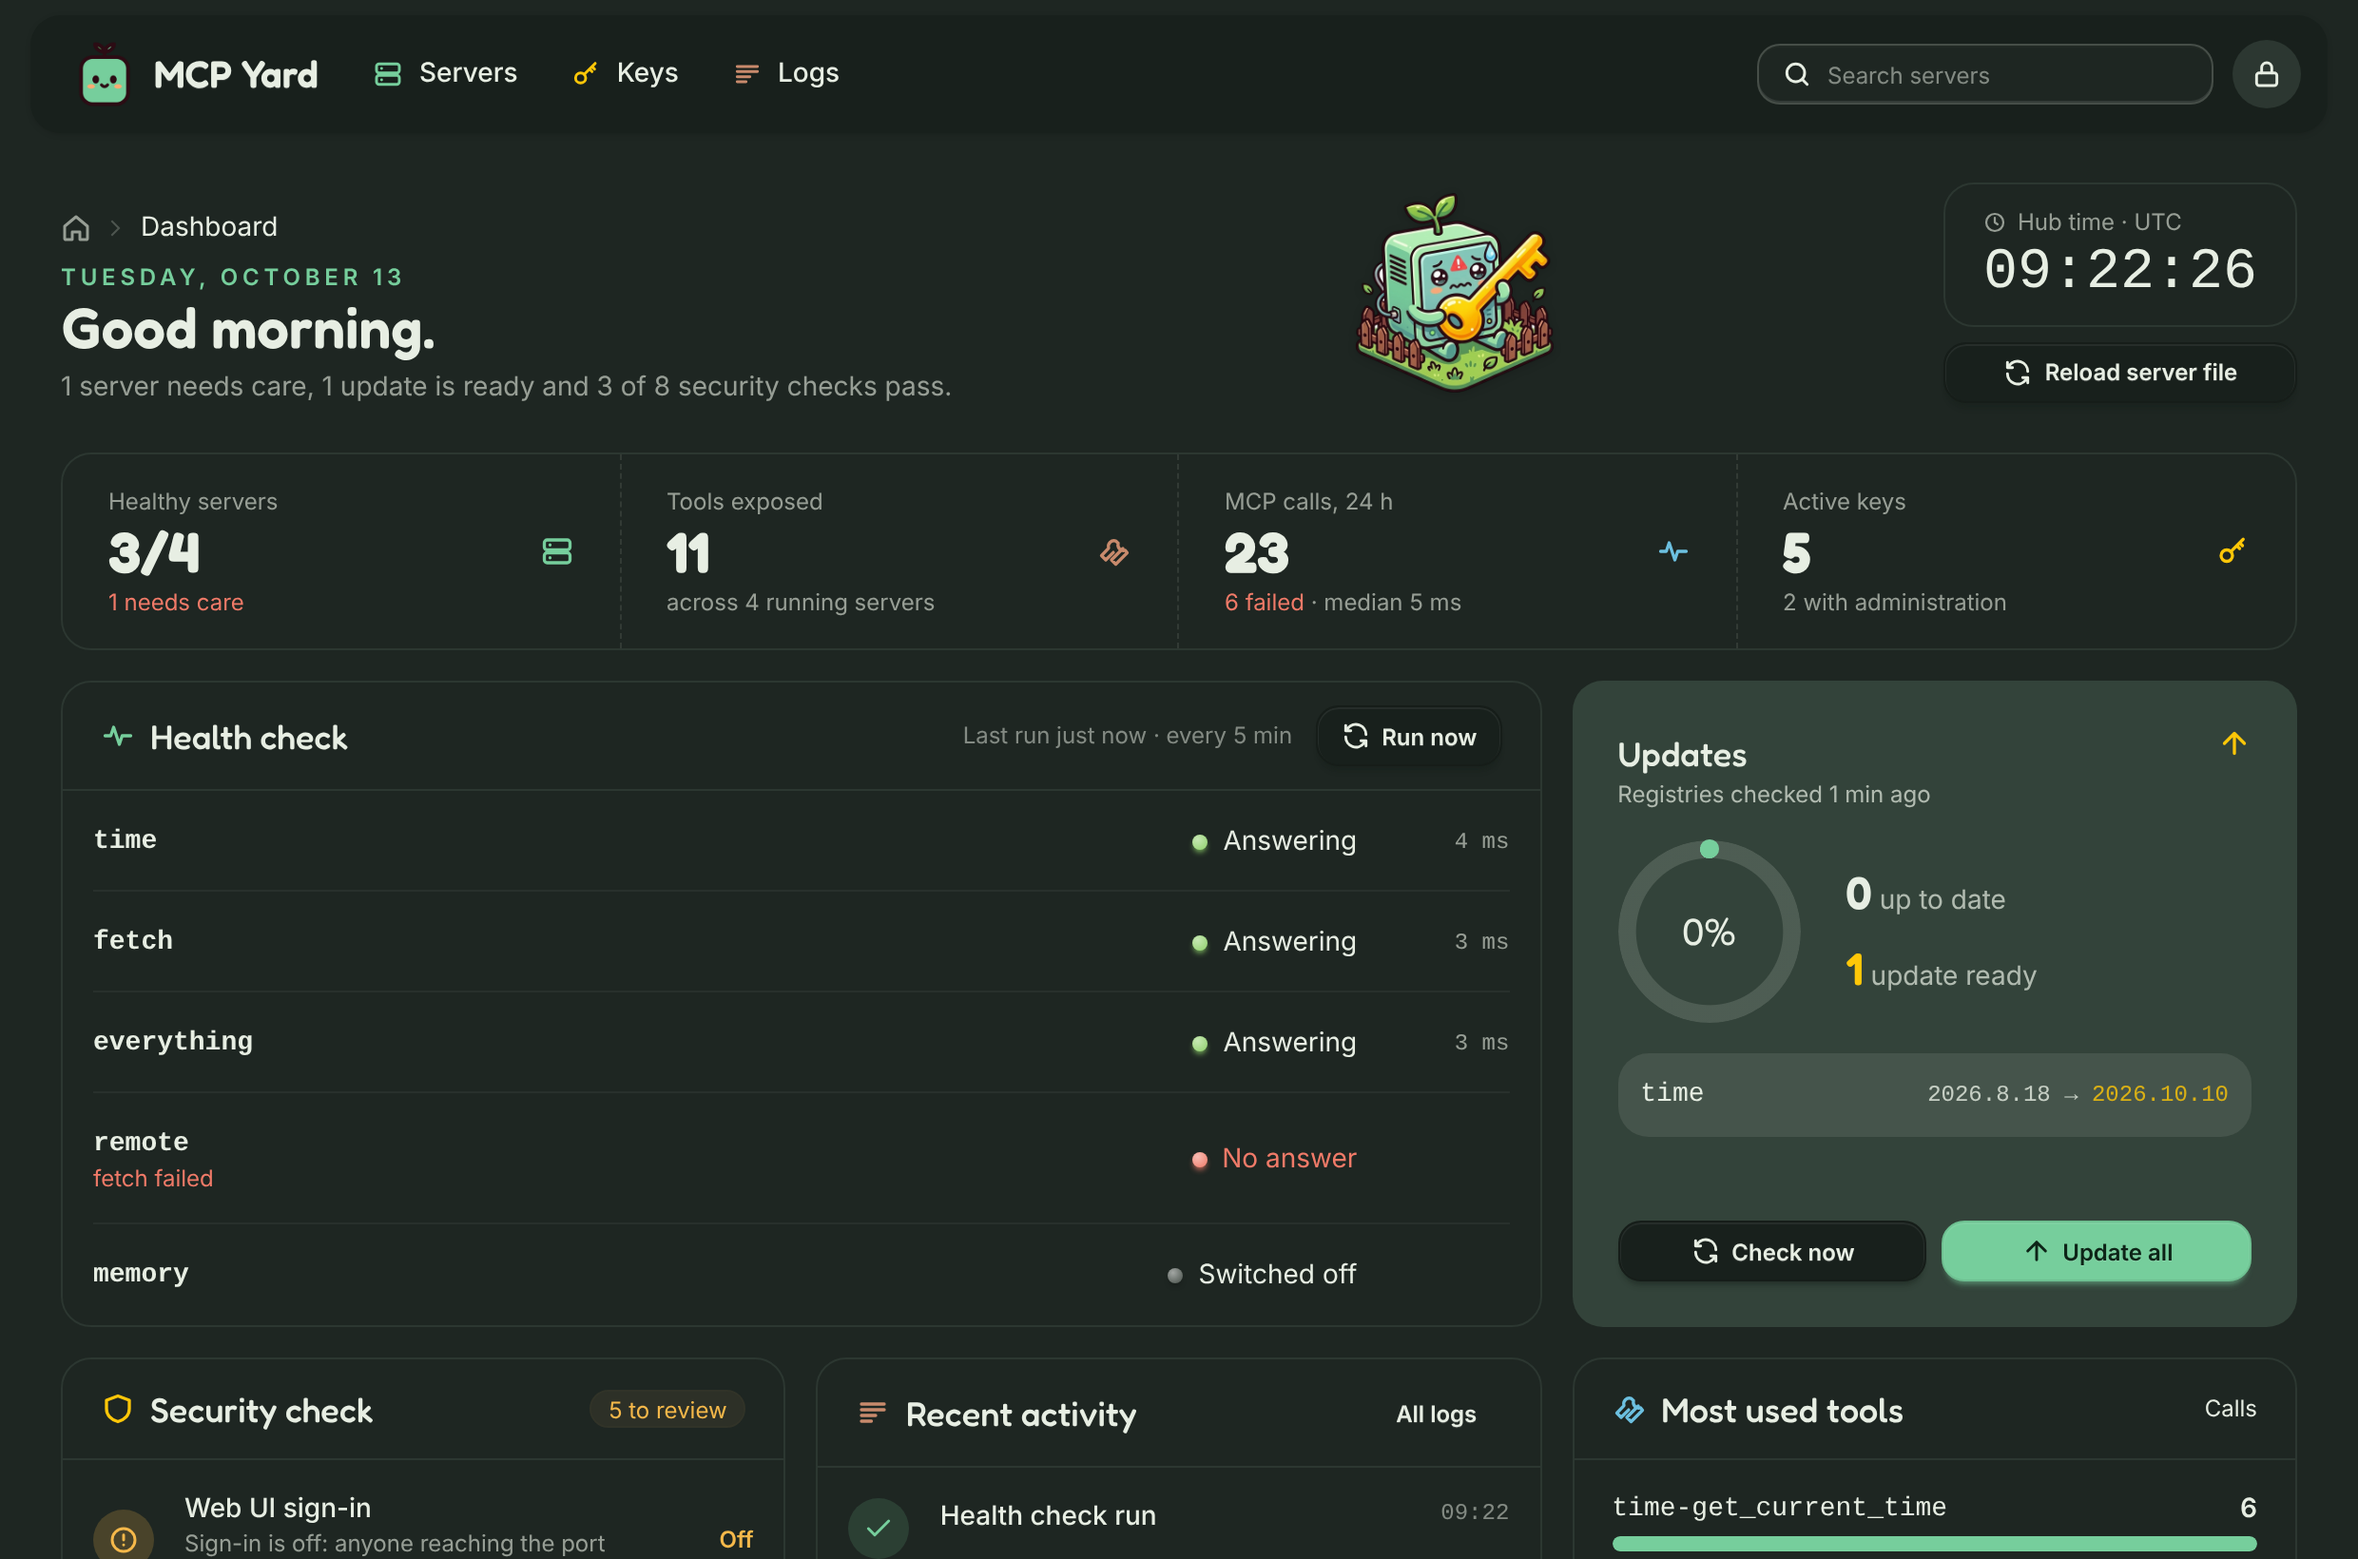
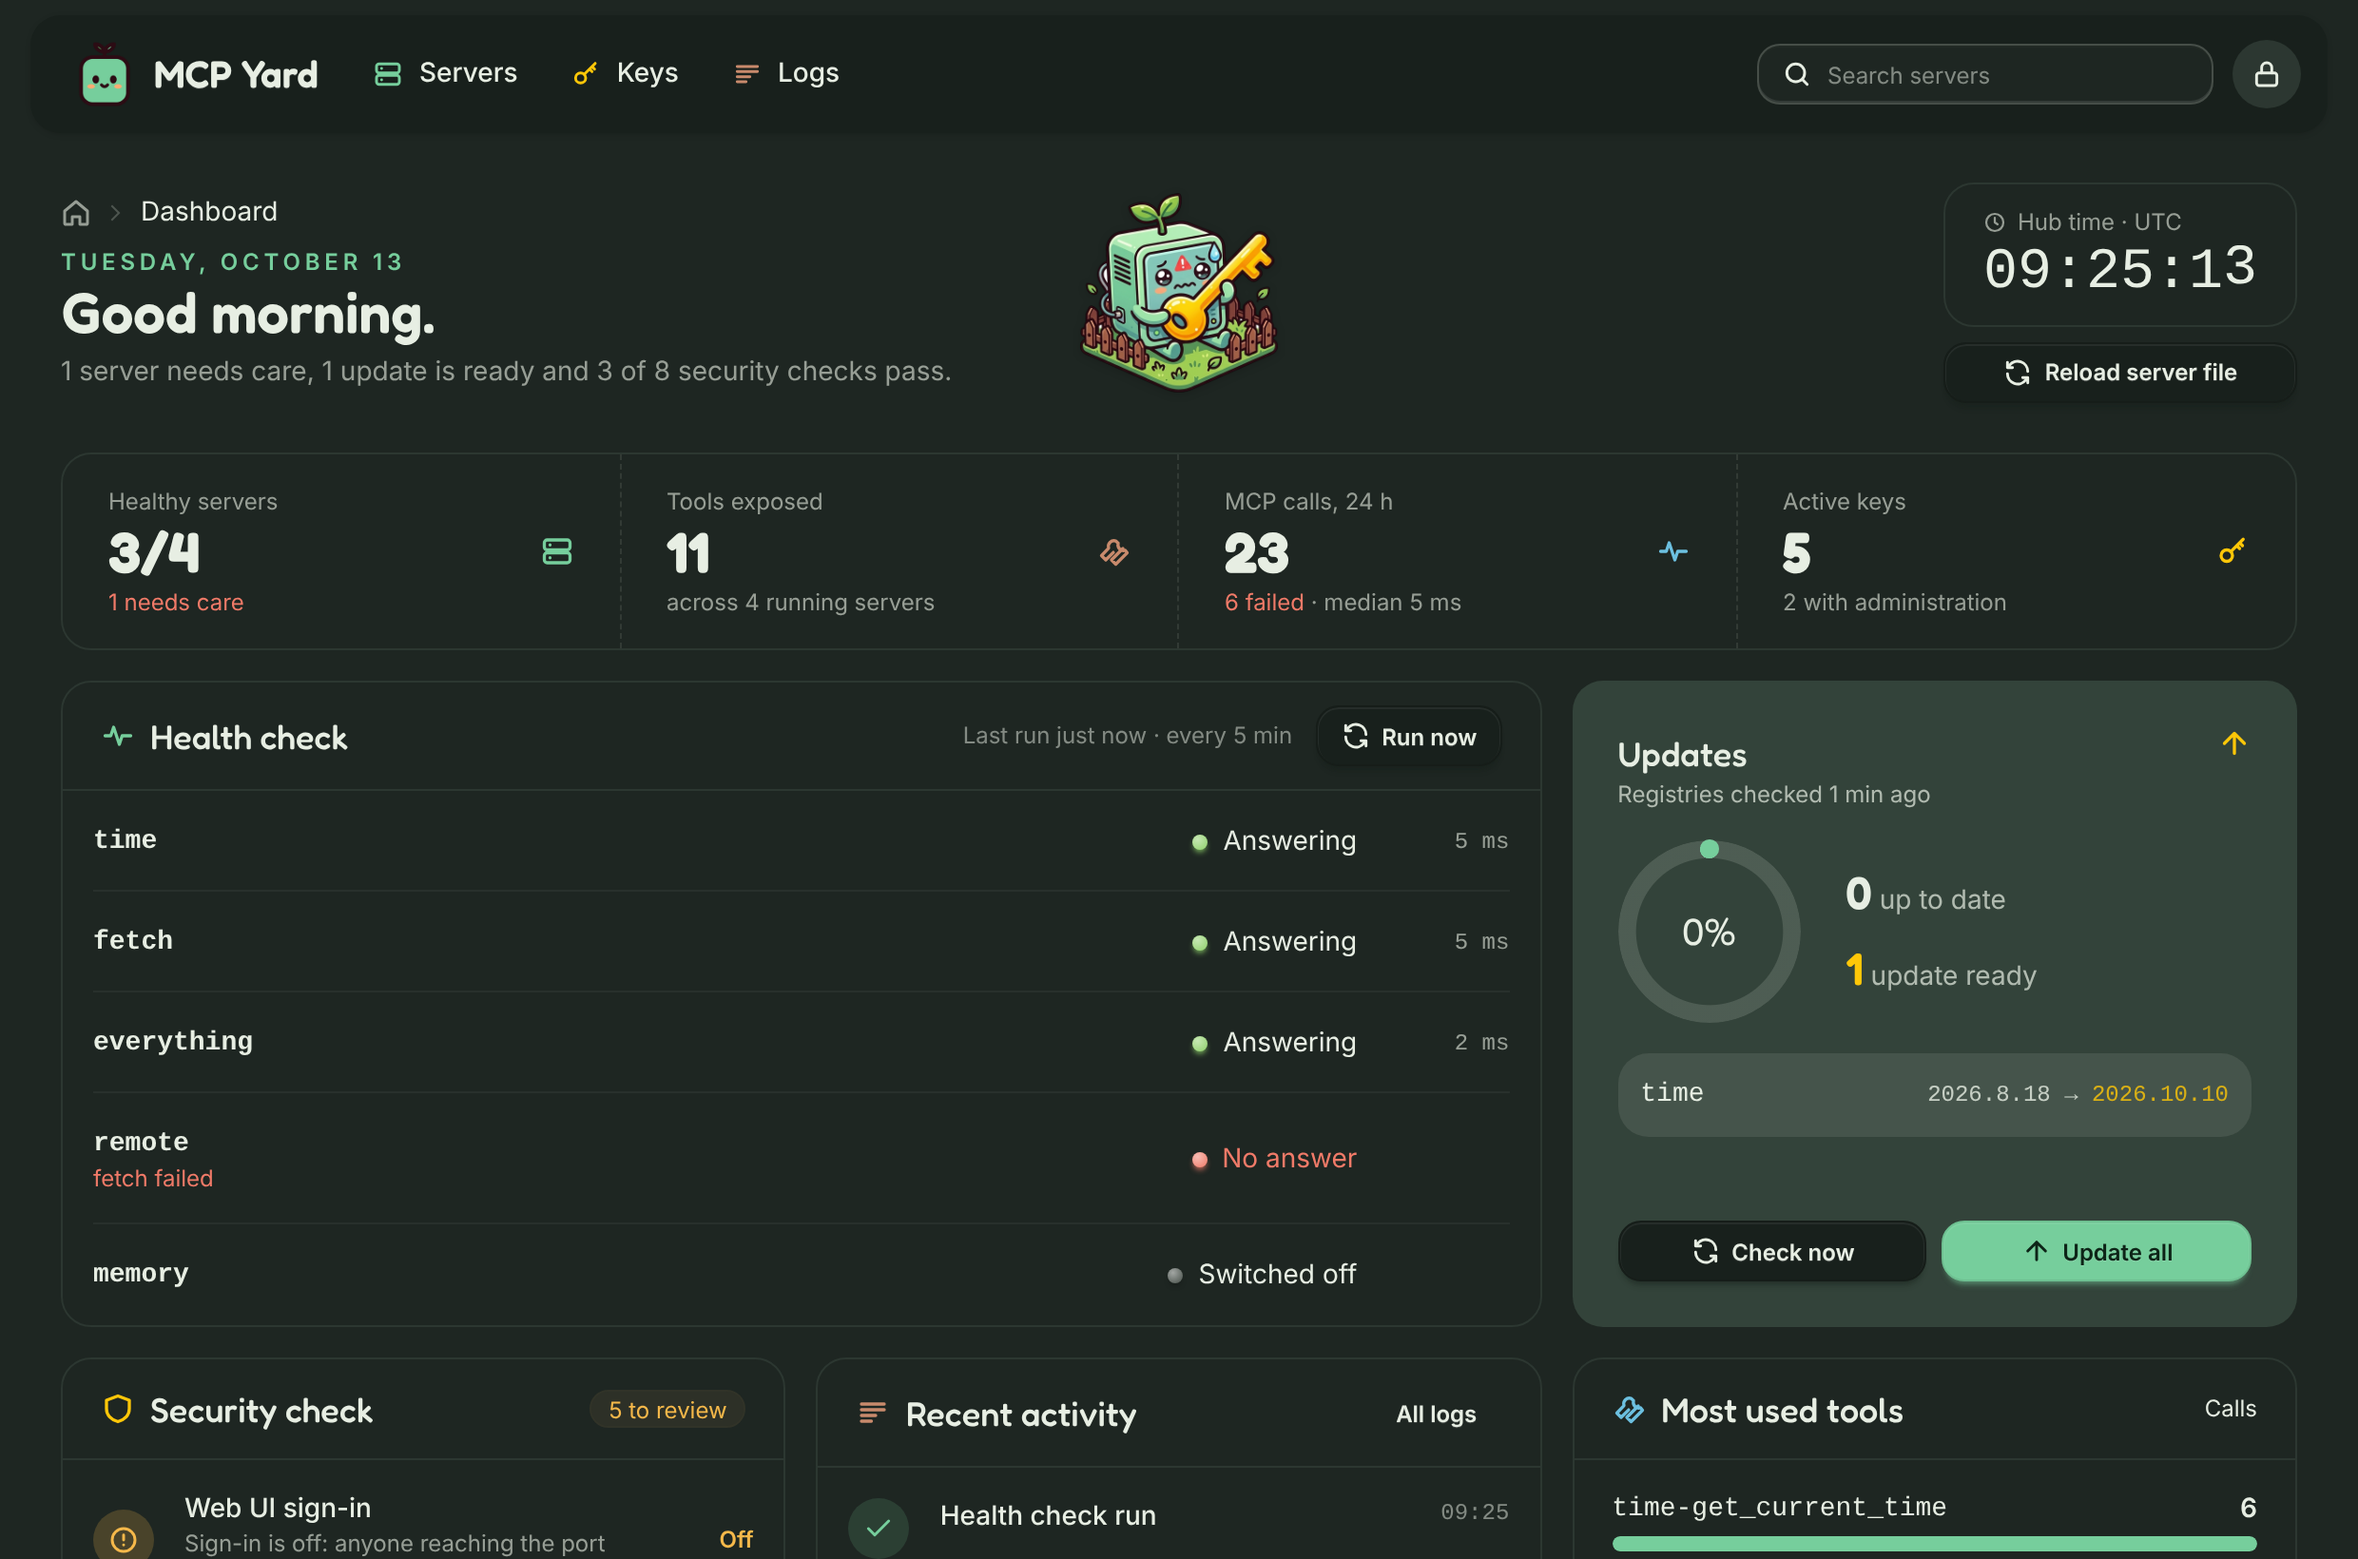
fix(ui): center the dashboard mascot on the page

Changed region(s): [[0.031, 0.1244, 0.4036, 0.2488], [0.4347, 0.1244, 0.6831, 0.2488], [0.9004, 0.1555, 0.9625, 0.1866]]

diff --git a/src/ui-kit.ts b/src/ui-kit.ts
@@ -12,15 +12,17 @@ export type Tone = 'neutral' | 'primary' | 'success' | 'warning' | 'error' | 'in
 export type Crumb = { label: Content; href?: string };
 
 /** The top of every page: breadcrumbs from the home page, the title, a line under it, and the page's actions. */
-export function pageHead(title: Content, options: { sub?: Content; actions?: Content; crumbs?: Crumb[]; eyebrow?: Content; wideActions?: boolean } = {}): Fragment {
-  return html`<header class="flex flex-wrap items-end justify-between gap-x-6 gap-y-3 mb-6">
+export function pageHead(title: Content, options: { sub?: Content; actions?: Content; crumbs?: Crumb[]; eyebrow?: Content; wideActions?: boolean; center?: Content } = {}): Fragment {
+  // With a center, large screens get three columns of which the middle one sits at the page's center.
+  return html`<header class="flex flex-wrap items-end justify-between gap-x-6 gap-y-3 mb-6 ${options.center ? 'lg:grid lg:grid-cols-[1fr_auto_1fr] lg:items-center' : ''}">
     <div class="min-w-0">
       ${breadcrumbs(options.crumbs ?? [{ label: title }])}
       ${options.eyebrow ? html`<p class="mt-2 text-xs font-semibold uppercase tracking-[0.2em] text-primary">${options.eyebrow}</p>` : ''}
       <h1 class="flex flex-wrap items-center gap-3 font-display text-3xl font-semibold">${title}</h1>
       ${options.sub ? html`<p class="mt-1 text-base-content/60">${options.sub}</p>` : ''}
     </div>
-    ${options.actions ? html`<div class="flex flex-wrap items-center gap-2 max-sm:w-full ${options.wideActions ? 'sm:flex-1' : ''}">${options.actions}</div>` : ''}
+    ${options.center ? html`<div class="hidden lg:flex justify-center">${options.center}</div>` : ''}
+    ${options.actions ? html`<div class="flex flex-wrap items-center gap-2 max-sm:w-full ${options.wideActions ? 'sm:flex-1' : ''} ${options.center ? 'lg:justify-self-end' : ''}">${options.actions}</div>` : ''}
   </header>`;
 }
 

diff --git a/src/ui-dashboard.ts b/src/ui-dashboard.ts
@@ -146,8 +146,9 @@ function dashboard(c: Context<Env>, hub: Hub, options: DashboardOptions): Fragme
       sub: summary,
       crumbs: [{ label: 'Dashboard' }],
       wideActions: true,
+      center: mascot('md', mood),
       actions: html`<div class="flex w-full items-center gap-4">
-        <div class="flex flex-1 justify-center">${mascot('md', mood)}</div>
+        <div class="flex flex-1 justify-center lg:hidden">${mascot('md', mood)}</div>
         <div class="grid gap-2 max-sm:flex-1">
           ${clock()}
           <form method="post" action="/dashboard/reload" class="contents"><button class="btn btn-sm w-full" title="Re-read the server file and apply the changes">${icon('refresh', 'sm')}Reload server file</button></form>
